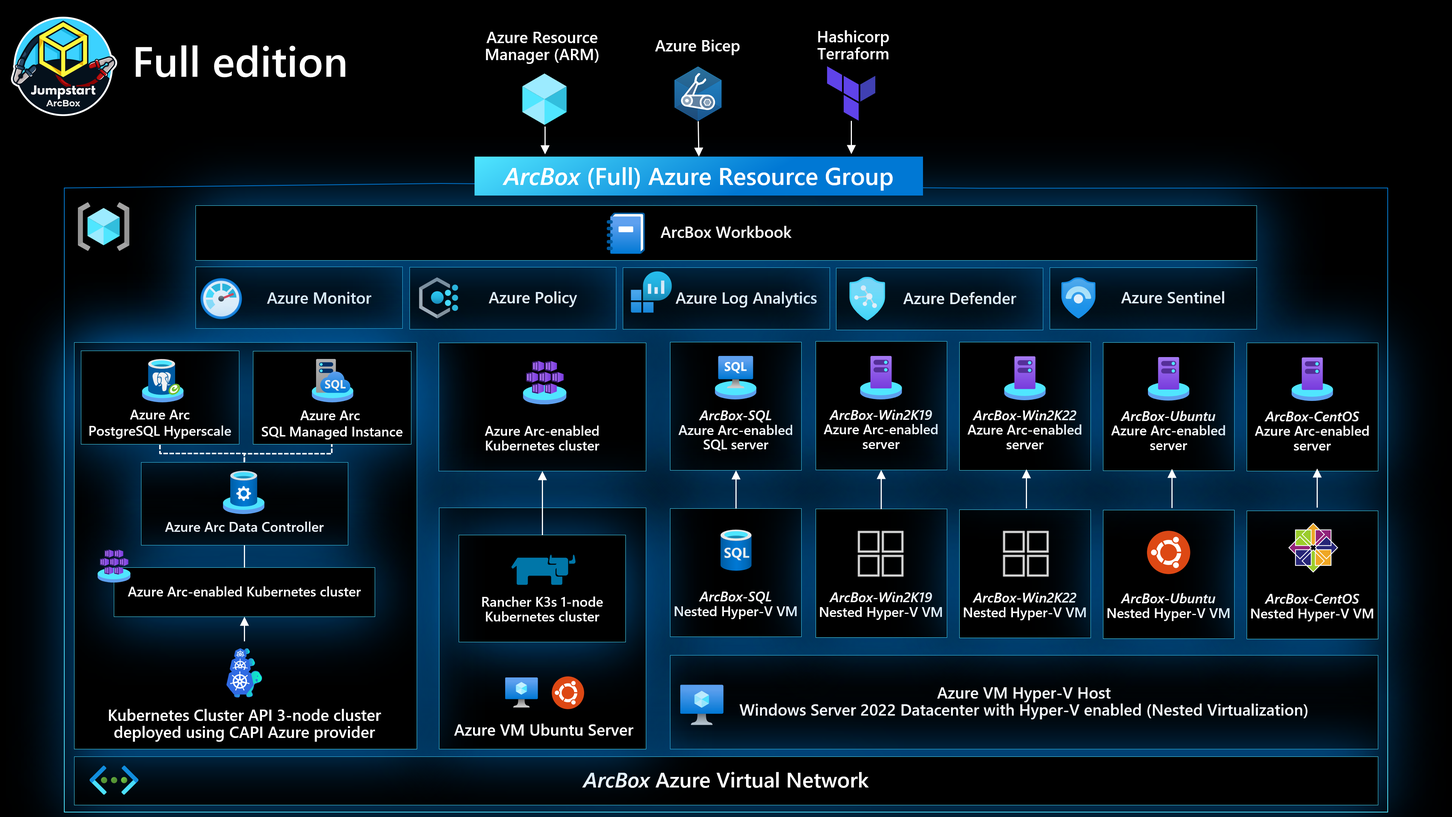
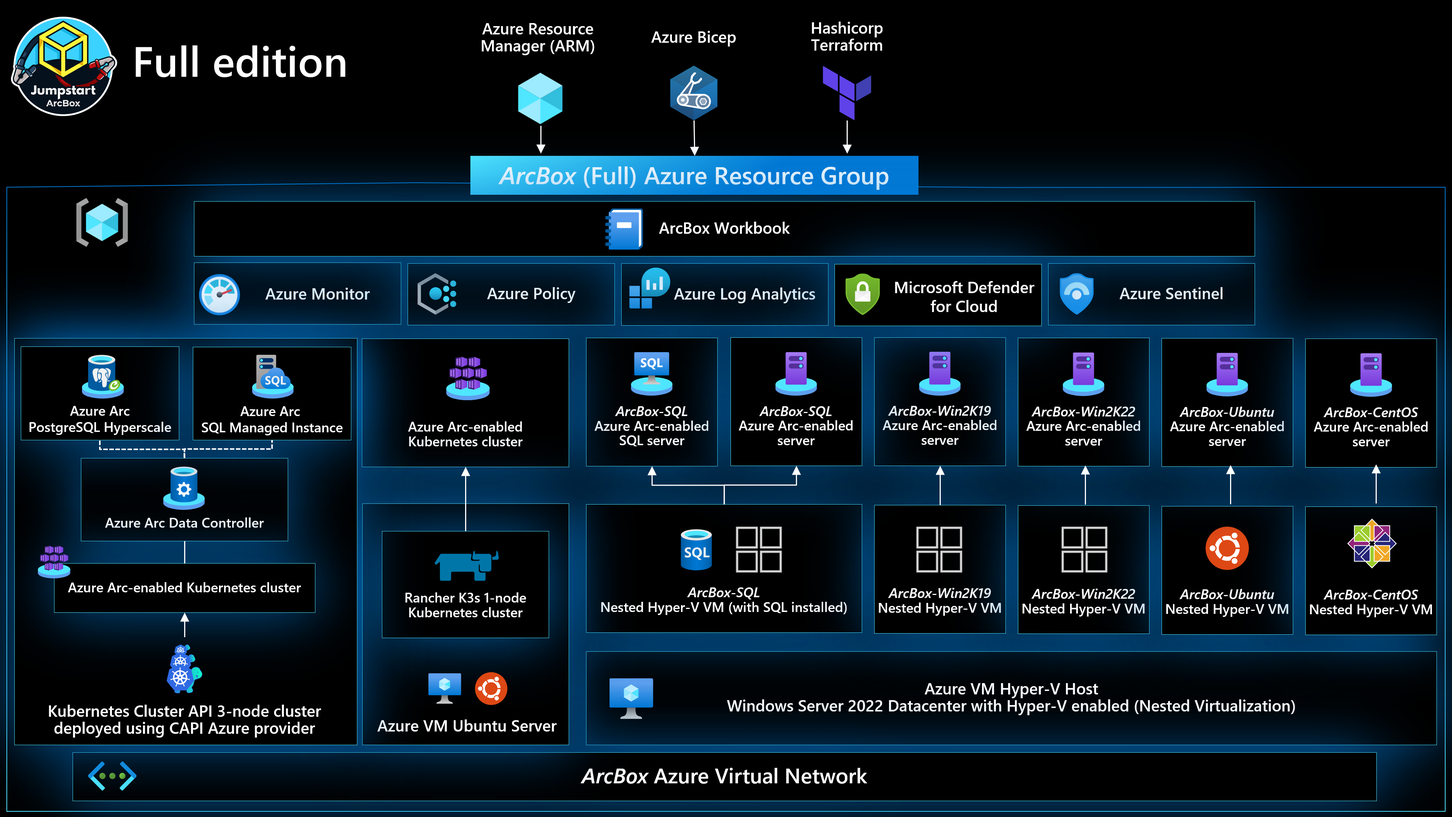
readme updates

diff --git a/docs/azure_jumpstart_arcbox/flavors/ITPro/_index.md b/docs/azure_jumpstart_arcbox/flavors/ITPro/_index.md
@@ -52,7 +52,7 @@ ArcBox uses an advanced automation flow to deploy and configure all necessary re
   - Deploy and configure five (5) nested virtual machines in Hyper-V
     - Windows Server 2022 VM - onboarded as Azure Arc-enabled server
     - Windows Server 2019 VM - onboarded as Azure Arc-enabled server
-    - Windows VM running SQL Server - onboarded as Azure Arc-enabled SQL server (as well as Azure Arc-enabled server)
+    - Windows VM running SQL Server - onboarded as Azure Arc-enabled SQL Server (as well as Azure Arc-enabled server)
     - Ubuntu VM - onboarded as Azure Arc-enabled server
     - CentOS VM - onboarded as Azure Arc-enabled server
   - Deploy an Azure Monitor workbook that provides example reports and metrics for monitoring ArcBox components
@@ -86,9 +86,9 @@ ArcBox uses an advanced automation flow to deploy and configure all necessary re
 - Create Azure service principal (SP). To deploy ArcBox, an Azure service principal assigned with multiple RBAC roles is required:
 
   - "Contributor" - Required for provisioning Azure resources
-  - **(optional)** "User Access Administrator" - Required for automatically onboarding the Azure Arc-enabled SQL server resource
+  - **(optional)** "User Access Administrator" - Required for automatically onboarding the Azure Arc-enabled SQL Server resource
 
-    > **NOTE: In the event a Service Principal with Owner cannot be created, the SQL server can be onboarded to Azure Arc post deployment by following the [Azure Arc-enabled SQL Server onboarding](#azure-arc-enabled-sql-server-onboarding) steps below.**
+    > **NOTE: In the event a Service Principal with Owner cannot be created, the SQL Server can be onboarded to Azure Arc post deployment by following the [Azure Arc-enabled SQL Server onboarding](#azure-arc-enabled-sql-server-onboarding) steps below.**
 
     To create it login to your Azure account run the below command (this can also be done in [Azure Cloud Shell](https://shell.azure.com/).
 
@@ -162,7 +162,6 @@ ArcBox must be deployed to one of the following regions. **Deploying ArcBox outs
   ```
 
 - Edit the [azuredeploy.parameters.json](https://github.com/microsoft/azure_arc/blob/main/azure_jumpstart_arcbox/ARM/azuredeploy.parameters.json) ARM template parameters file and supply some values for your environment.
-
   - _`sshRSAPublicKey`_ - Your SSH public key
   - _`spnClientId`_ - Your Azure service principal id
   - _`spnClientSecret`_ - Your Azure service principal secret
@@ -170,7 +169,7 @@ ArcBox must be deployed to one of the following regions. **Deploying ArcBox outs
   - _`windowsAdminUsername`_ - Client Windows VM Administrator name
   - _`windowsAdminPassword`_ - Client Windows VM Password. Password must have 3 of the following: 1 lower case character, 1 upper case character, 1 number, and 1 special character. The value must be between 12 and 123 characters long.
   - _`myIpAddress`_ - Your local IP address. This is used to allow remote RDP connections to the Client Windows VM.
-  - _`logAnalyticsWorkspaceName`_ - Unique name for the ArcBox log analytics workspace
+  - _`logAnalyticsWorkspaceName`_ - Unique name for the ArcBox Log Analytics workspace
   - _`flavor`_ - Use the value "ITPro" to specify that you want to deploy ArcBox for IT Pros
 
     ![Screenshot showing example parameters](./parameters.png)
@@ -204,7 +203,6 @@ ArcBox must be deployed to one of the following regions. **Deploying ArcBox outs
   ```
 
 - Edit the [main.parameters.json](https://github.com/microsoft/azure_arc/blob/main/azure_jumpstart_arcbox/bicep/main.parameters.json) template parameters file and supply some values for your environment.
-
   - _`sshRSAPublicKey`_ - Your SSH public key
   - _`spnClientId`_ - Your Azure service principal id
   - _`spnClientSecret`_ - Your Azure service principal secret
@@ -212,7 +210,7 @@ ArcBox must be deployed to one of the following regions. **Deploying ArcBox outs
   - _`windowsAdminUsername`_ - Client Windows VM Administrator name
   - _`windowsAdminPassword`_ - Client Windows VM Password. Password must have 3 of the following: 1 lower case character, 1 upper case character, 1 number, and 1 special character. The value must be between 12 and 123 characters long.
   - _`myIpAddress`_ - Your local IP address. This is used to allow remote RDP connections to the Client Windows VM.
-  - _`logAnalyticsWorkspaceName`_ - Unique name for the ArcBox log analytics workspace
+  - _`logAnalyticsWorkspaceName`_ - Unique name for the ArcBox Log Analytics workspace
   - _`flavor`_ - Use the value "ITPro" to specify that you want to deploy ArcBox for IT Pros
 
   ![Screenshot showing example parameters](./parameters_bicep.png)
@@ -221,7 +219,7 @@ ArcBox must be deployed to one of the following regions. **Deploying ArcBox outs
 
   ```shell
   az login
-  az group create --name "<resource-group-name>"  --location "<preferred-location>"
+  az group create --name "<resource-group-name>" --location "<preferred-location>"
   az deployment group create -g "<resource-group-name>" -f "main.bicep" -p "main.parameters.json"
   ```
 
@@ -298,21 +296,21 @@ ArcBox must be deployed to one of the following regions. **Deploying ArcBox outs
 
 ## Azure Arc-enabled SQL Server onboarding
 
-- During deployment, a check is performed to determine whether or not the Service Principal being used has permissions of _'Microsoft.Authorization/roleAssignments/write'_ on the target Resource Group. This permission can be found in the Azure built-in roles of Owner, User Access Administrator, or you may have a custom RBAC role which provides this permission. If the Service Principal has been granted the rights to change the role assignments on the Resource Group, the Azure Arc-enabled SQL server can be automatically onboarded as part of the port-deployment automation.
+- During deployment, a check is performed to determine whether or not the Service Principal being used has permissions of _'Microsoft.Authorization/roleAssignments/write'_ on the target resource group. This permission can be found in the Azure built-in roles of Owner, User Access Administrator, or you may have a custom RBAC role which provides this permission. If the Service Principal has been granted the rights to change the role assignments on the resource group, the Azure Arc-enabled SQL Server can be automatically onboarded as part of the port-deployment automation.
 
-- In the event that the Service Principal does *not* have _'Microsoft.Authorization/roleAssignments/write'_ on the target Resource Group, and icon will created on the _ArcBox-Client_ desktop, which will allow you to onboard the Azure Arc-enabled SQL server after the post-deployment automation is complete. To start the onboarding process in this scenario, simply click the _'Onboard SQL Server'_ icon on the desktop. This process should take around 10-15 minutes to complete.
+- In the event that the Service Principal does *not* have _'Microsoft.Authorization/roleAssignments/write'_ on the target resource group, and icon will created on the _ArcBox-Client_ desktop, which will allow you to onboard the Azure Arc-enabled SQL Server after the post-deployment automation is complete. To start the onboarding process in this scenario, simply click the _'Onboard SQL Server'_ icon on the desktop. This process should take around 10-15 minutes to complete.
 
   ![Screenshot showing ArcBox-Client](./sql_manual_onboard_icon.png)
 
-- A pop-up box will walk you through the target SQL server which will be onboarded to Azure Arc, as well as provide details around the flow of the onboarding automation and how to complete the Azure authentication process when prompted.
+- A pop-up box will walk you through the target SQL Server which will be onboarded to Azure Arc, as well as provide details around the flow of the onboarding automation and how to complete the Azure authentication process when prompted.
 
   ![Screenshot showing ArcBox-Client](./sql_manual_onboard_start.png)
 
-- The automation uses the PowerShell SDK to onboard the Azure Arc-enabled SQL server on your behalf. To accomplish this, it will login to Azure with the _-UseDeviceAuthentication_ flag. The device code will be copied to the clipboard on your behalf, so you can simply paste the value into box when prompted.
+- The automation uses the PowerShell SDK to onboard the Azure Arc-enabled SQL Server on your behalf. To accomplish this, it will login to Azure with the _-UseDeviceAuthentication_ flag. The device code will be copied to the clipboard on your behalf, so you can simply paste the value into box when prompted.
 
   ![Screenshot showing ArcBox-Client](./sql_manual_onboard_code.png)
 
-- You'll then need to provide your Azure credentials to complete the authentication process. The user you login as will need _'Microsoft.Authorization/roleAssignments/write'_ permissions on the ArcBox Resource Group to complete the onboarding process.
+- You'll then need to provide your Azure credentials to complete the authentication process. The user you login as will need _'Microsoft.Authorization/roleAssignments/write'_ permissions on the ArcBox resource group to complete the onboarding process.
 
   ![Screenshot showing ArcBox-Client](./sql_manual_onboard_login.png)
 
@@ -324,7 +322,7 @@ ArcBox must be deployed to one of the following regions. **Deploying ArcBox outs
 
   ![Screenshot showing ArcBox-Client](./sql_manual_onboard_complete.png)
 
-- From the Azure portal, the SQL server should now be visible as an Azure Arc-enabled SQL server.
+- From the Azure portal, the SQL Server should now be visible as an Azure Arc-enabled SQL Server.
 
   ![Screenshot showing ArcBox-Client](./sql_manual_onboard_portal.png)
 
@@ -333,8 +331,8 @@ ArcBox must be deployed to one of the following regions. **Deploying ArcBox outs
 After deployment is complete, its time to start exploring ArcBox. Most interactions with ArcBox will take place either from Azure itself (Azure portal, CLI or similar) or from inside the _ArcBox-Client_ virtual machine. When remoted into the client VM, here are some things to try:
 
 - Open Hyper-V and access the Azure Arc-enabled servers
-  - Username: arcdemo
-  - Password: ArcDemo123!!
+  - **Username: arcdemo**
+  - **Password: ArcDemo123!!**
 
   ![Screenshot showing ArcBox Client VM with Hyper-V](./hypervterminal.png)
 
@@ -415,4 +413,4 @@ If you are still having issues deploying ArcBox, please [submit an issue](https:
 
 ## Known issues
 
-- Azure Arc-enabled SQL server assessment report not always visible in Azure portal
+- Azure Arc-enabled SQL Server assessment report not always visible in Azure portal

diff --git a/docs/azure_jumpstart_arcbox/flavors/Full/_index.md b/docs/azure_jumpstart_arcbox/flavors/Full/_index.md
@@ -72,7 +72,7 @@ ArcBox uses an advanced automation flow to deploy and configure all necessary re
   - Deploy and configure five (5) nested virtual machines in Hyper-V
     - Windows Server 2022 VM - onboarded as Azure Arc-enabled server
     - Windows Server 2019 VM - onboarded as Azure Arc-enabled server
-    - Windows VM running SQL Server - onboarded as Azure Arc-enabled SQL server (as well as Azure Arc-enabled server)
+    - Windows VM running SQL Server - onboarded as Azure Arc-enabled SQL Server (as well as Azure Arc-enabled server)
     - Ubuntu VM - onboarded as Azure Arc-enabled server
     - CentOS VM - onboarded as Azure Arc-enabled server
   - Deploy an Azure Monitor workbook that provides example reports and metrics for monitoring ArcBox components
@@ -112,9 +112,9 @@ ArcBox uses an advanced automation flow to deploy and configure all necessary re
   - "Security admin" - Required for installing Microsoft Defender for Cloud Azure-Arc enabled Kubernetes extension and dismiss alerts
   - "Security reader" - Required for being able to view Azure-Arc enabled Kubernetes Cloud Defender extension findings
   - "Monitoring Metrics Publisher" - Required for being Azure Arc-enabled data services billing, monitoring metrics, and logs management
-  - **(optional)** "User Access Administrator" - Required for automatically onboarding the Azure Arc-enabled SQL server resource
+  - **(optional)** "User Access Administrator" - Required for automatically onboarding the Azure Arc-enabled SQL Server resource
 
-    > **NOTE: In the event a Service Principal with Owner cannot be created, the SQL server can be onboarded to Azure Arc post deployment by following the [Azure Arc-enabled SQL Server onboarding](#azure-arc-enabled-sql-server-onboarding) steps below.**
+    > **NOTE: In the event a Service Principal with Owner cannot be created, the SQL Server can be onboarded to Azure Arc post deployment by following the [Azure Arc-enabled SQL Server onboarding](#azure-arc-enabled-sql-server-onboarding) steps below.**
 
     To create it login to your Azure account run the below command (this can also be done in [Azure Cloud Shell](https://shell.azure.com/).
 
@@ -188,7 +188,6 @@ ArcBox must be deployed to one of the following regions. **Deploying ArcBox outs
     ```
 
 - Edit the [azuredeploy.parameters.json](https://github.com/microsoft/azure_arc/blob/main/azure_jumpstart_arcbox/azuredeploy.parameters.json) ARM template parameters file and supply some values for your environment.
-
   - _`sshRSAPublicKey`_ - Your SSH public key
   - _`spnClientId`_ - Your Azure service principal id
   - _`spnClientSecret`_ - Your Azure service principal secret
@@ -196,7 +195,7 @@ ArcBox must be deployed to one of the following regions. **Deploying ArcBox outs
   - _`windowsAdminUsername`_ - Client Windows VM Administrator name
   - _`windowsAdminPassword`_ - Client Windows VM Password. Password must have 3 of the following: 1 lower case character, 1 upper case character, 1 number, and 1 special character. The value must be between 12 and 123 characters long.
   - _`myIpAddress`_ - Your local IP address. This is used to allow remote RDP and SSH connections to the Client Windows VM and K3s Rancher VM.
-  - _`logAnalyticsWorkspaceName`_ - Unique name for the ArcBox log analytics workspace
+  - _`logAnalyticsWorkspaceName`_ - Unique name for the ArcBox Log Analytics workspace
   - _`flavor`_ - Use the value "Full" to specify that you want to deploy the full version of ArcBox
 
     ![Screenshot showing example parameters](./parameters.png)
@@ -230,7 +229,6 @@ ArcBox must be deployed to one of the following regions. **Deploying ArcBox outs
   ```
 
 - Edit the [main.parameters.json](https://github.com/microsoft/azure_arc/blob/main/azure_jumpstart_arcbox/bicep/main.parameters.json) template parameters file and supply some values for your environment.
-
   - _`sshRSAPublicKey`_ - Your SSH public key
   - _`spnClientId`_ - Your Azure service principal id
   - _`spnClientSecret`_ - Your Azure service principal secret
@@ -238,7 +236,7 @@ ArcBox must be deployed to one of the following regions. **Deploying ArcBox outs
   - _`windowsAdminUsername`_ - Client Windows VM Administrator name
   - _`windowsAdminPassword`_ - Client Windows VM Password. Password must have 3 of the following: 1 lower case character, 1 upper case character, 1 number, and 1 special character. The value must be between 12 and 123 characters long.
   - _`myIpAddress`_ - Your local IP address. This is used to allow remote RDP and SSH connections to the Client Windows VM and K3s Rancher VM.
-  - _`logAnalyticsWorkspaceName`_ - Unique name for the ArcBox log analytics workspace
+  - _`logAnalyticsWorkspaceName`_ - Unique name for the ArcBox Log Analytics workspace
   - _`flavor`_ - Use the value "Full" to specify that you want to deploy the full version of ArcBox
 
   ![Screenshot showing example parameters](./parameters_bicep.png)
@@ -328,17 +326,17 @@ ArcBox must be deployed to one of the following regions. **Deploying ArcBox outs
 
 ## Azure Arc-enabled SQL Server onboarding
 
-- During deployment, a check is performed to determine whether or not the Service Principal being used has permissions of _'Microsoft.Authorization/roleAssignments/write'_ on the target Resource Group. This permission can be found in the Azure built-in roles of Owner, User Access Administrator, or you may have a custom RBAC role which provides this permission. If the Service Principal has been granted the rights to change the role assignments on the Resource Group, the Azure Arc-enabled SQL server can be automatically onboarded as part of the port-deployment automation.
+- During deployment, a check is performed to determine whether or not the Service Principal being used has permissions of _'Microsoft.Authorization/roleAssignments/write'_ on the target resource group. This permission can be found in the Azure built-in roles of Owner, User Access Administrator, or you may have a custom RBAC role which provides this permission. If the Service Principal has been granted the rights to change the role assignments on the resource group, the Azure Arc-enabled SQL Server can be automatically onboarded as part of the port-deployment automation.
 
-- In the event that the Service Principal does *not* have _'Microsoft.Authorization/roleAssignments/write'_ on the target Resource Group, and icon will created on the _ArcBox-Client_ desktop, which will allow you to onboard the Azure Arc-enabled SQL server after the post-deployment automation is complete. To start the onboarding process in this scenario, simply click the _'Onboard SQL Server'_ icon on the desktop. This process should take around 10-15 minutes to complete.
+- In the event that the Service Principal does *not* have _'Microsoft.Authorization/roleAssignments/write'_ on the target resource group, and icon will created on the _ArcBox-Client_ desktop, which will allow you to onboard the Azure Arc-enabled SQL Server after the post-deployment automation is complete. To start the onboarding process in this scenario, simply click the _'Onboard SQL Server'_ icon on the desktop. This process should take around 10-15 minutes to complete.
 
   ![Screenshot showing ArcBox-Client](./sql_manual_onboard_icon.png)
 
-- A pop-up box will walk you through the target SQL server which will be onboarded to Azure Arc, as well as provide details around the flow of the onboarding automation and how to complete the Azure authentication process when prompted.
+- A pop-up box will walk you through the target SQL Server which will be onboarded to Azure Arc, as well as provide details around the flow of the onboarding automation and how to complete the Azure authentication process when prompted.
 
   ![Screenshot showing ArcBox-Client](./sql_manual_onboard_start.png)
 
-- The automation uses the PowerShell SDK to onboard the Azure Arc-enabled SQL server on your behalf. To accomplish this, it will login to Azure with the _-UseDeviceAuthentication_ flag. The device code will be copied to the clipboard on your behalf, so you can simply paste the value into box when prompted.
+- The automation uses the PowerShell SDK to onboard the Azure Arc-enabled SQL Server on your behalf. To accomplish this, it will login to Azure with the _-UseDeviceAuthentication_ flag. The device code will be copied to the clipboard on your behalf, so you can simply paste the value into box when prompted.
 
   ![Screenshot showing ArcBox-Client](./sql_manual_onboard_code.png)
 
@@ -354,7 +352,7 @@ ArcBox must be deployed to one of the following regions. **Deploying ArcBox outs
 
   ![Screenshot showing ArcBox-Client](./sql_manual_onboard_complete.png)
 
-- From the Azure portal, the SQL server should now be visible as an Azure Arc-enabled SQL server.
+- From the Azure portal, the SQL Server should now be visible as an Azure Arc-enabled SQL Server.
 
   ![Screenshot showing ArcBox-Client](./sql_manual_onboard_portal.png)
 
@@ -363,8 +361,8 @@ ArcBox must be deployed to one of the following regions. **Deploying ArcBox outs
 After deployment is complete, its time to start exploring ArcBox. Most interactions with ArcBox will take place either from Azure itself (Azure portal, CLI or similar) or from inside the _ArcBox-Client_ virtual machine. When remoted into the client VM, here are some things to try:
 
 - Open Hyper-V and access the Azure Arc-enabled servers
-  - Username: arcdemo
-  - Password: ArcDemo123!!
+  - **Username: arcdemo**
+  - **Password: ArcDemo123!!**
 
   ![Screenshot showing ArcBox Client VM with Hyper-V](./hypervterminal.png)
 
@@ -423,7 +421,7 @@ ArcBox is a sandbox that can be used for a large variety of use cases, such as a
 - Incorporate your own tooling and automation into the existing automation framework
 - Build a certificate/secret/key management strategy with your Azure Arc resources
 
-Do you have an interesting use case to share? Submit an issue on GitHub with your idea and we will consider it for future releases!
+Do you have an interesting use case to share? [Submit an issue](https://github.com/microsoft/azure_arc/issues/new/choose) on GitHub with your idea and we will consider it for future releases!
 
 ## Clean up the deployment
 
@@ -482,5 +480,5 @@ If you are still having issues deploying ArcBox, please [submit an issue](https:
 
 ## Known issues
 
-- Azure Arc-enabled SQL server assessment report not always visible in Azure portal
+- Azure Arc-enabled SQL Server assessment report not always visible in Azure portal
 - Microsoft Defender for Cloud is currently disabled on the ArcBox-CAPI cluster.

diff --git a/docs/azure_jumpstart_arcbox/workbook/flavors/Full/_index.md b/docs/azure_jumpstart_arcbox/workbook/flavors/Full/_index.md
@@ -11,11 +11,11 @@ toc_hide: true
 
 As part of ArcBox, an Azure Monitor workbook is deployed to provide a single pane of glass for monitoring and reporting on ArcBox resources. Using Azure's management and operations tools in hybrid, multi-cloud and edge deployments provides the consistency needed to manage each environment through a common set of governance and operations management practices. The Azure Monitor workbook acts as a flexible canvas for data analysis and visualization in the Azure portal, gathering information from several data sources from across ArcBox and combining them into an integrated interactive experience.
 
-   > **Note: Due to the number of Azure resources included in a single ArcBox deployment and the data ingestion and analysis required, it is expected that metrics and telemetry for the workbook can take several hours to be fully available.**
+   > **NOTE: Due to the number of Azure resources included in a single ArcBox deployment and the data ingestion and analysis required, it is expected that metrics and telemetry for the workbook can take several hours to be fully available.**
 
 ## Access the ArcBox workbook
 
-The Jumpstart ArcBox workbook is automatically deployed for you as part of ArcBox's advanced automation. To access the Jumpstart ArcBox workbook use the Azure Portal to follow the next steps.
+The Jumpstart ArcBox workbook is automatically deployed for you as part of ArcBox's advanced automation. To access the Jumpstart ArcBox workbook use the Azure portal to follow the next steps.
 
 - Navigate to your ArcBox resource group and search for your Log Analytics workspace, you can do so by using the filter "Type" and searching for "Log Analytics workspace".
 
@@ -114,9 +114,9 @@ The "Monitoring" tab of the Jumpstart Workbook shows metrics and alerts for ArcB
 
 ### Security
 
-Azure Security Center can monitor the security posture of your hybrid and multi-cloud deployments that have been onboarded onto Azure Arc. Once those deployments are registered in Azure, you can take care of the security baseline and audit, apply, or automate requirements from recommended security controls as well as identify and provide mitigation guidance for security-related business risks.
+Microsoft Defender for Cloud can monitor the security posture of your hybrid and multi-cloud deployments that have been onboarded onto Azure Arc. Once those deployments are registered in Azure, you can take care of the security baseline and audit, apply, or automate requirements from recommended security controls as well as identify and provide mitigation guidance for security-related business risks.
 
-The "Security" tab of the Jumpstart Workbook shows insights from Azure Security Center assessments. To be able to use this report, you will need to configure "continuous export" capability to export Azure Security Center's data to ArcBox's Log Analytics workspace:
+The "Security" tab of the Jumpstart Workbook shows insights from Microsoft Defender for Cloud assessments. To be able to use this report, you will need to configure "continuous export" capability to export Microsoft Defender for Cloud's data to ArcBox's Log Analytics workspace:
 
 - From Security Center's sidebar, select Pricing & settings.
 
@@ -178,7 +178,7 @@ Once configured, the report will provide an overview of the secure score, you ca
 
      ![Resources changed overtime selected resources](./security_changes_resource.png)
 
-This part of the workbook also includes a section dedicated to agent monitoring. For Azure Defender to be able to monitor an Azure Arc enabled-servers certain configurations have to be in place and the workbook will help visualize machines that may not be properly reporting to the Log Analytics workspace.
+This part of the workbook also includes a section dedicated to agent monitoring. For Microsoft Defender for Cloud to be able to monitor an Azure Arc enabled-servers certain configurations have to be in place and the workbook will help visualize machines that may not be properly reporting to the Log Analytics workspace.
 
 In the parameters section select the Log Analytics workspace used by ArcBox.
 
@@ -188,7 +188,7 @@ From within the Agent Monitoring section you will get several tabs:
 
 - _Overview_ - with three visualizations:
 
-  - _Log Analytics Agent installation status_ shows the Log Analytics Agent installation status as reported by Azure Security Center.
+  - _Log Analytics Agent installation status_ shows the Log Analytics Agent installation status as reported by Microsoft Defender for Cloud.
 
      ![Log Analytics Agent installation status](./agentmgmt_overviewstatus.png)
 
@@ -196,9 +196,9 @@ From within the Agent Monitoring section you will get several tabs:
 
      ![Log Analytics Agent reporting status](./agentmgmt_overviewsreport.png)
 
-  - _Azure Defender coverage_ shows the status of Azure Defender for Servers across all servers that are protected by Azure Security Center.
+  - _Microsoft Defender for Cloud coverage_ shows the status of Microsoft Defender for Cloud for Servers across all servers that are protected by Microsoft Defender for Cloud.
 
-     ![Azure Defender coverage](./agentmgmt_overviewscoverage.png)
+     ![Microsoft Defender for Cloud coverage](./agentmgmt_overviewscoverage.png)
 
 - _Machines not reporting to Log Analytics workspace_ - this has four lists of machines that are not sending heartbeats to the Log Analytics workspace in different periods of time: 15 minutes, 24 hours, 48 hours and 7 days. Please not that there are no machines listed on the image as all of them are properly sending heartbeats to the workspace.
 
